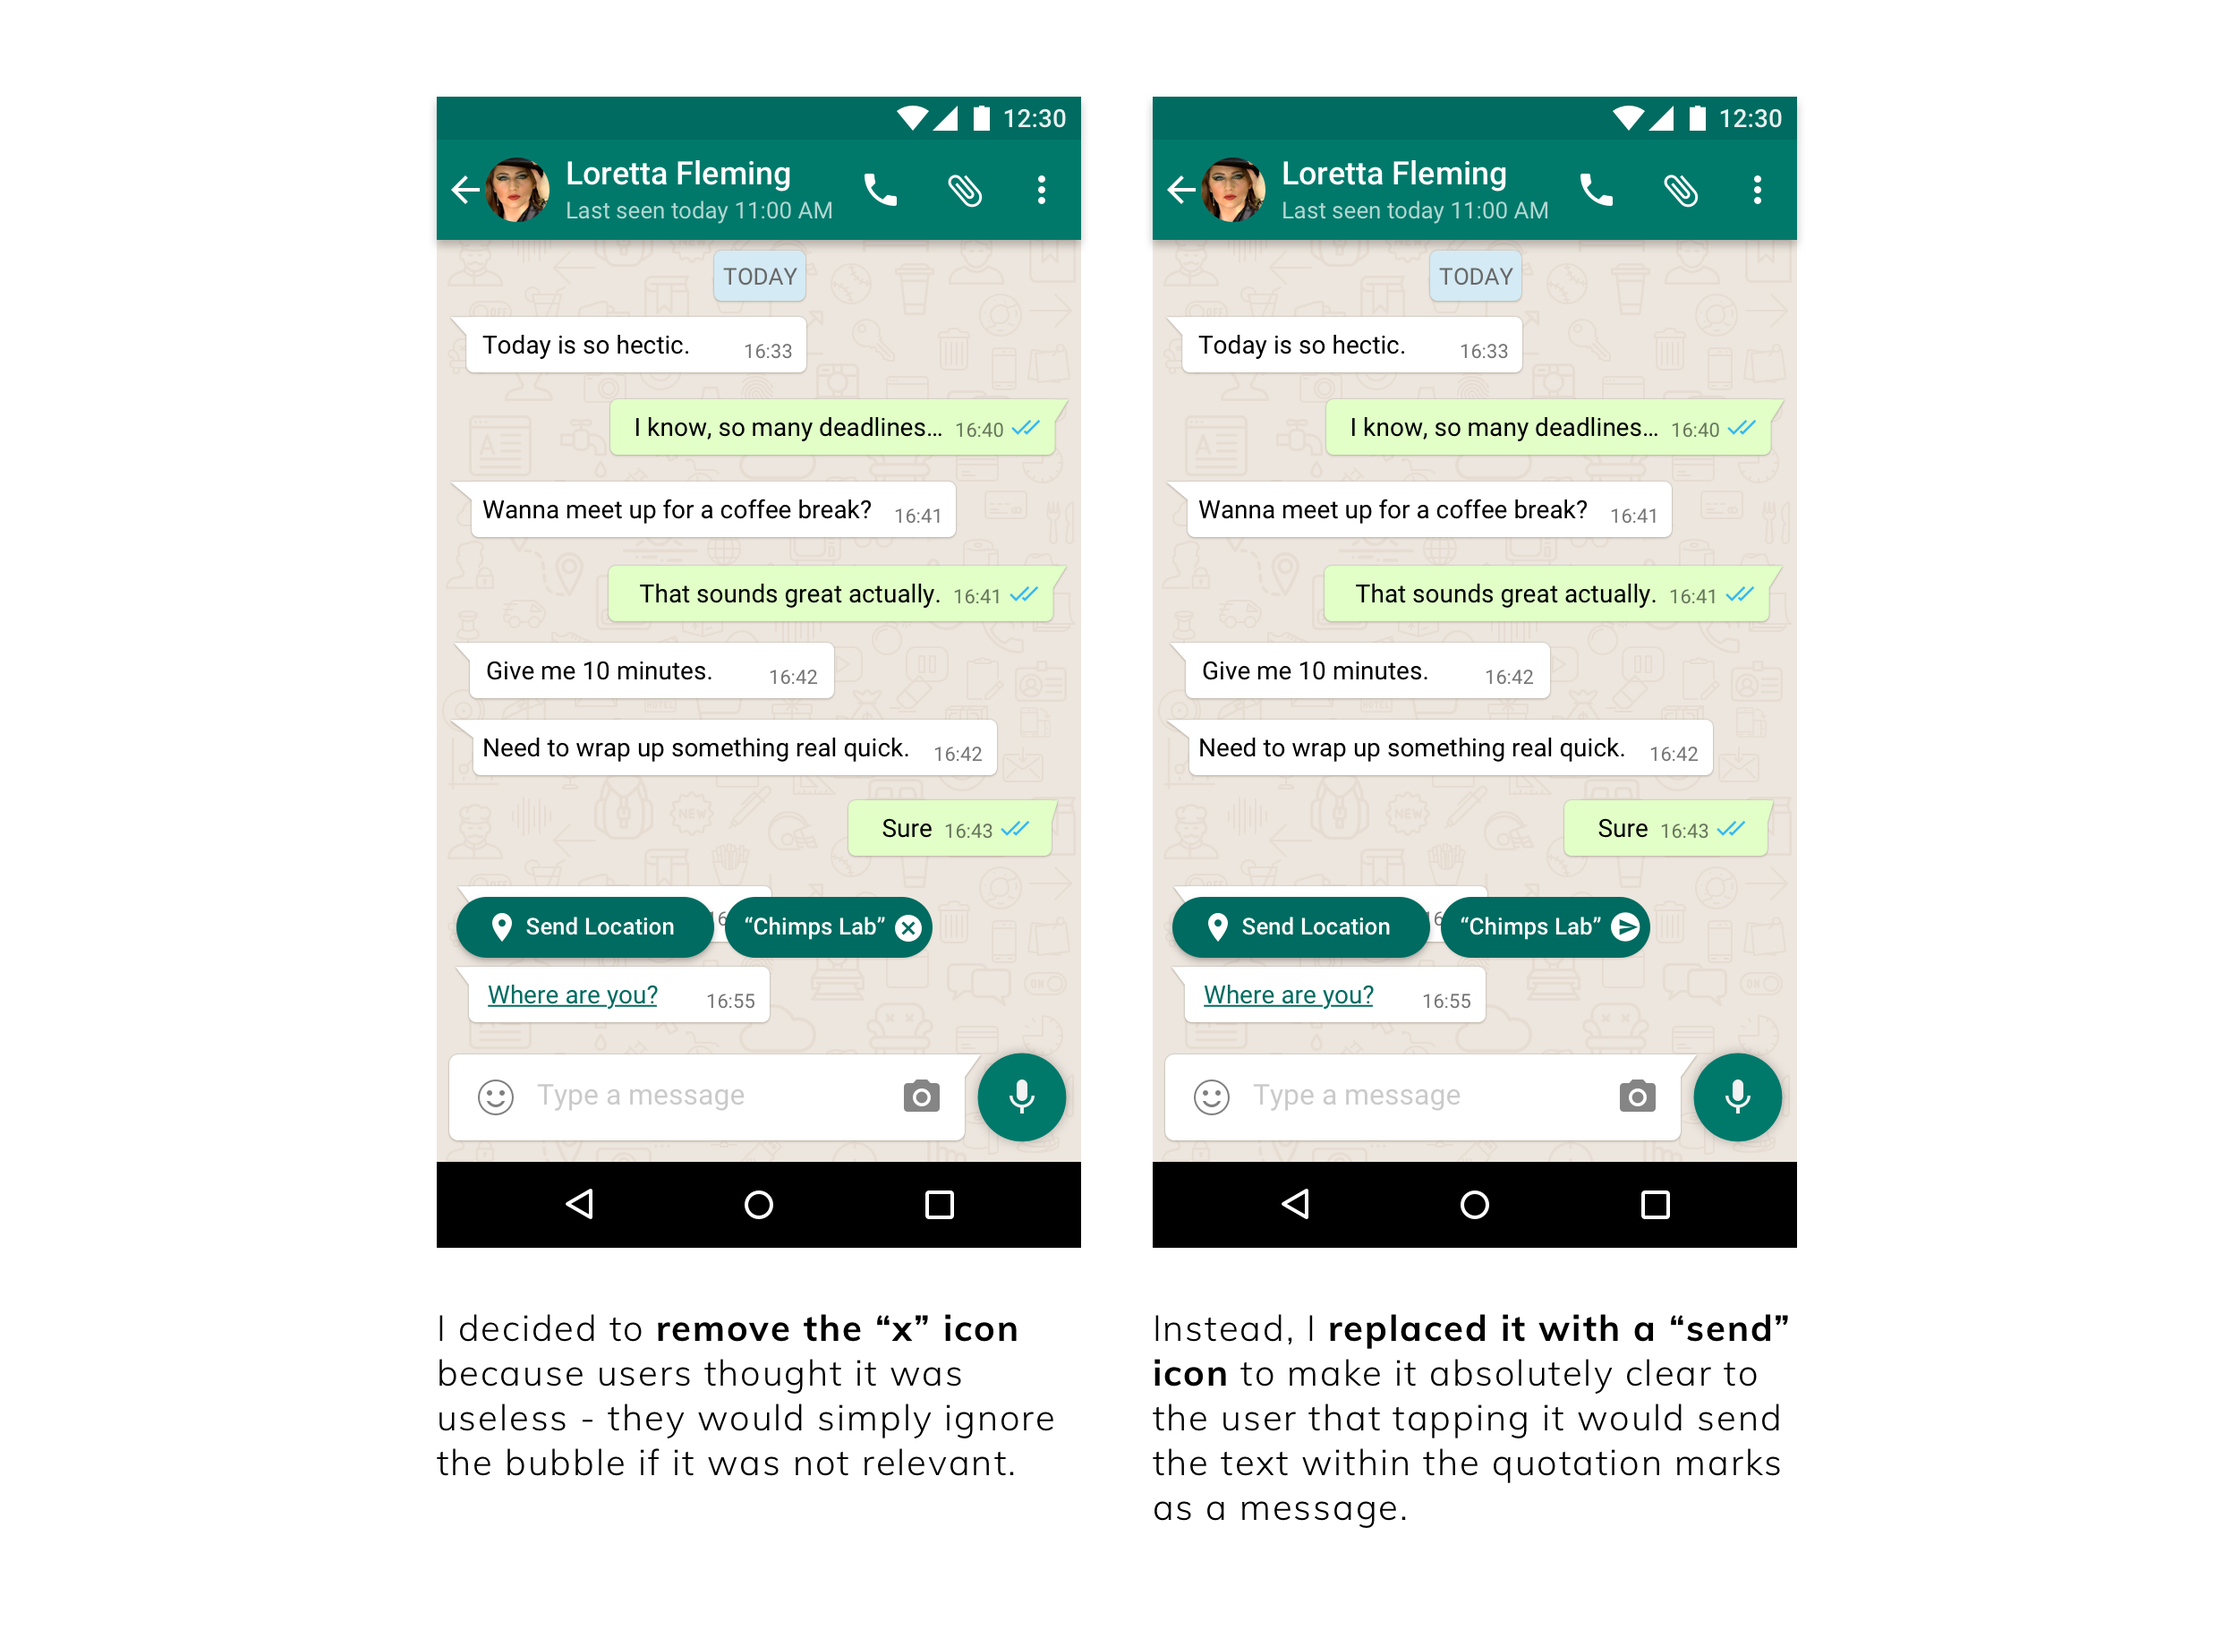
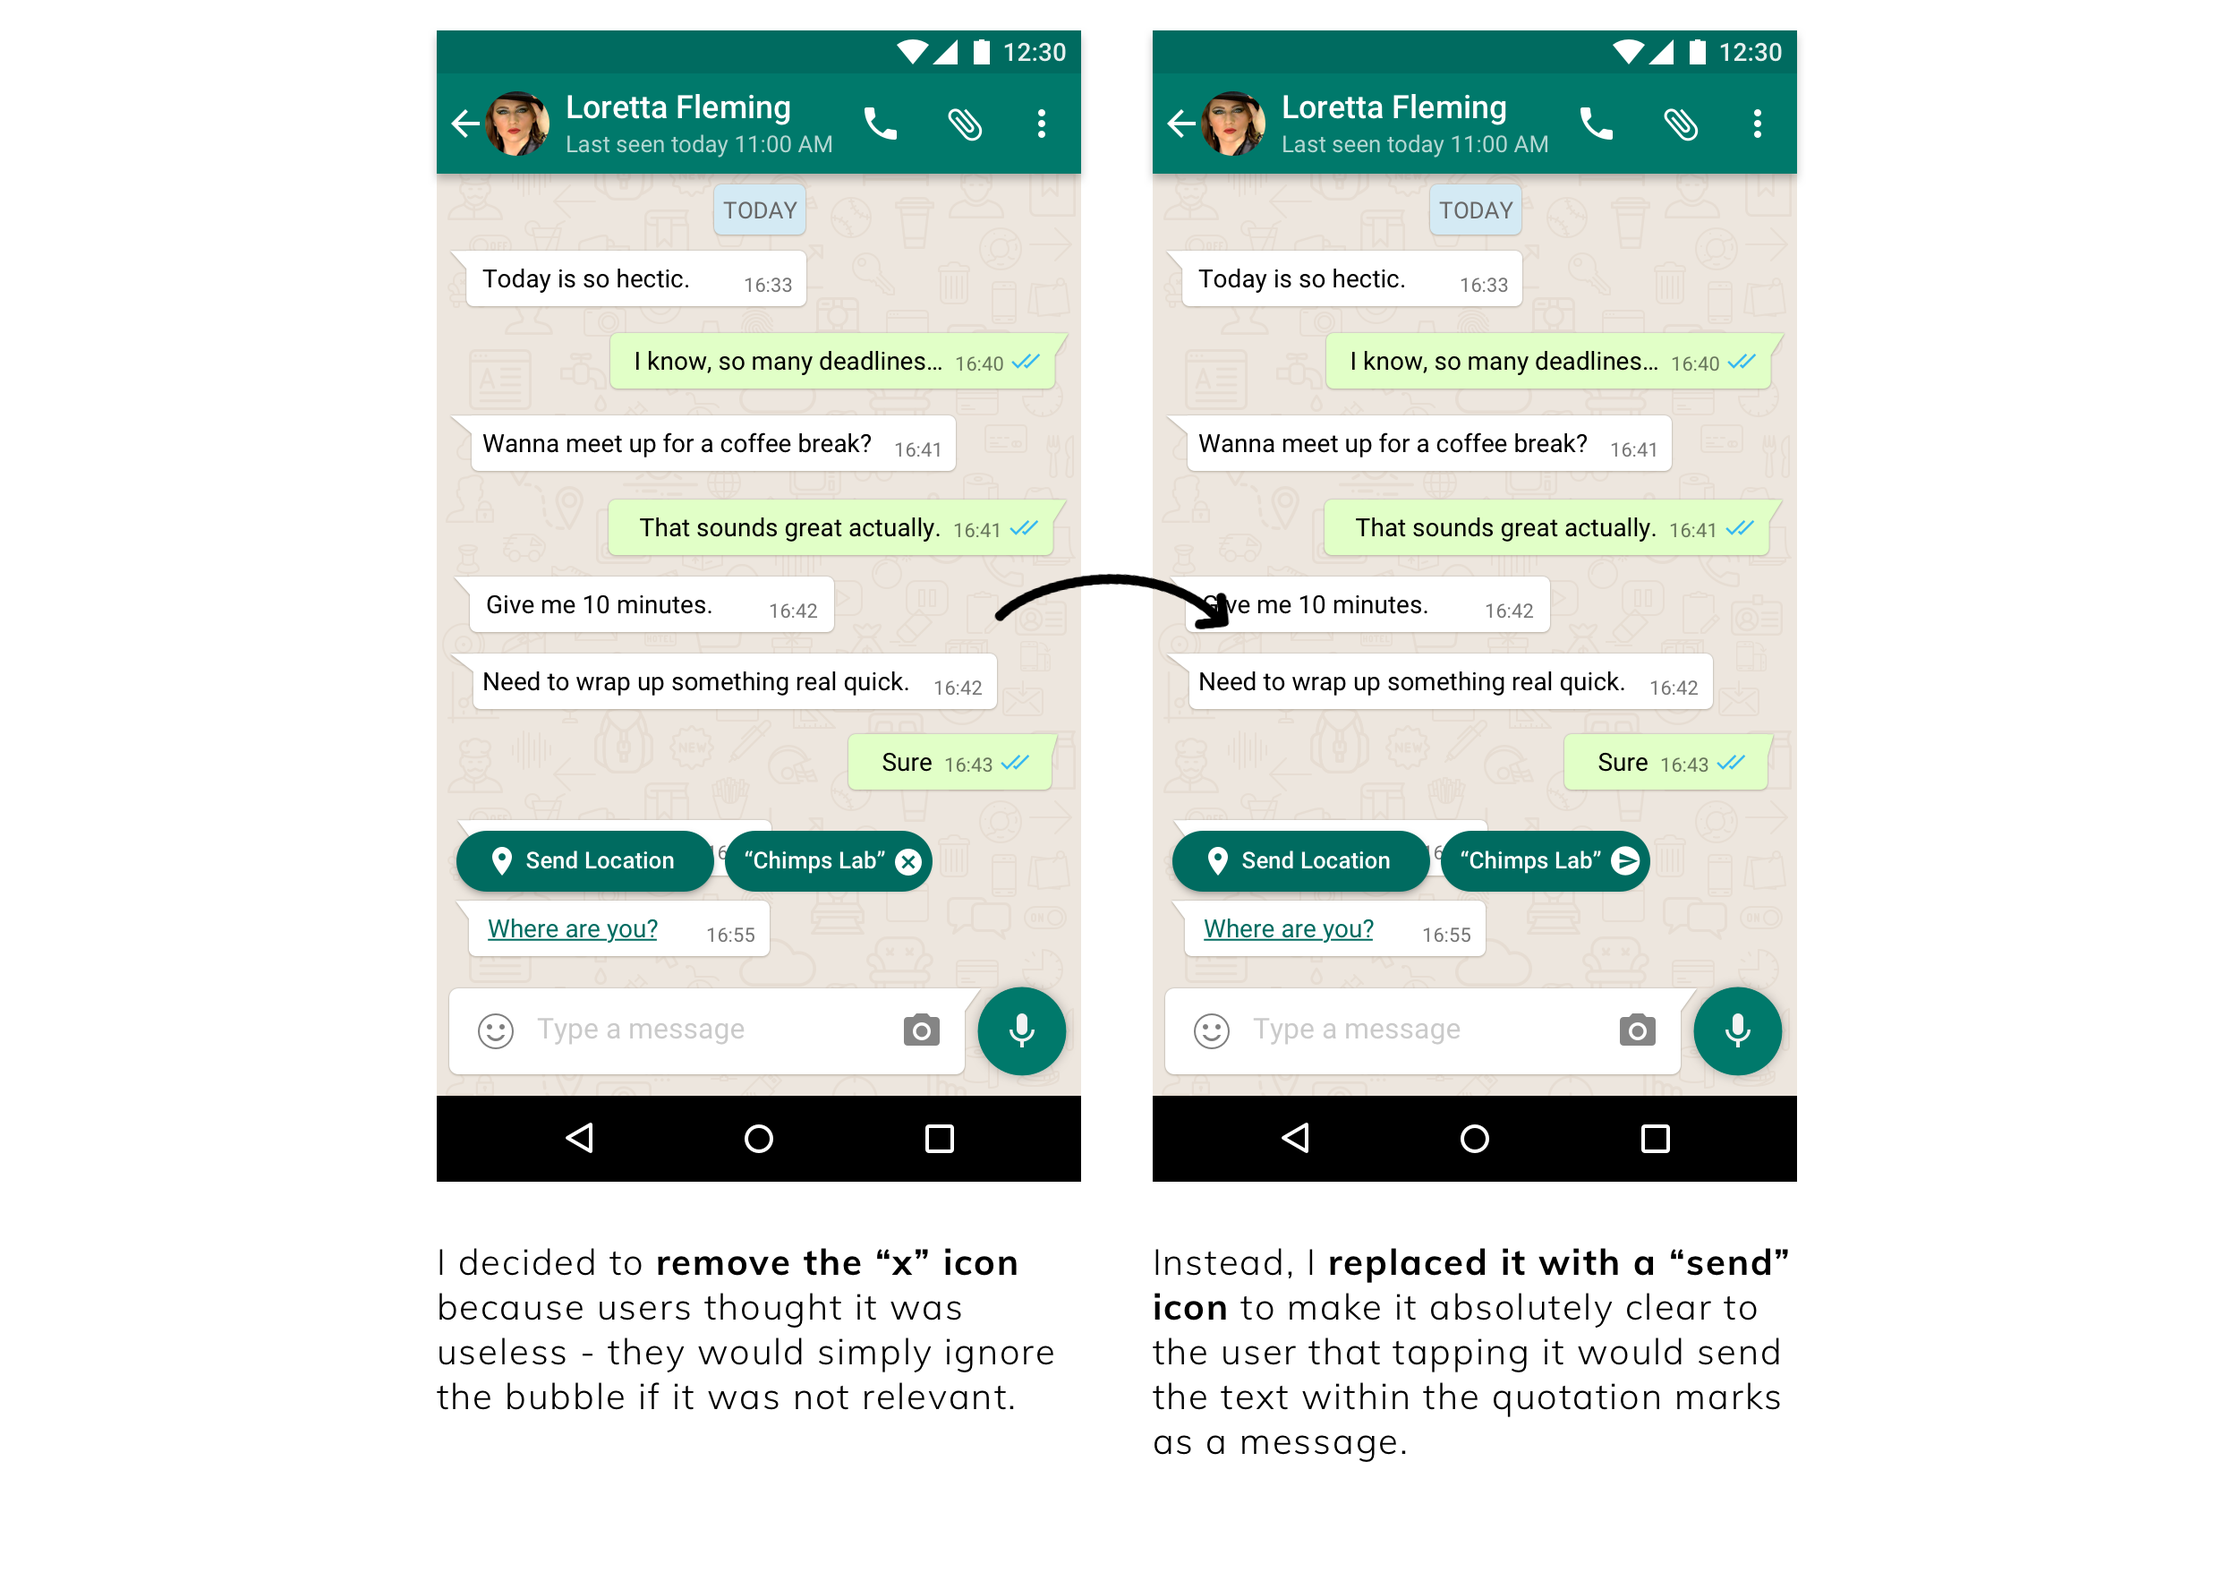
MessageOnTap

Changed region(s): [[0.1852, 0.0, 0.8027, 0.9343]]

diff --git a/messageontap.html b/messageontap.html
@@ -150,8 +150,8 @@
                 </div>
                 <div class="clear"></div>
 
-               
-               <br>
+
+                <br>
                 <div class="center-div">                    
                     <video autoplay="true" loop="true" controller="false" height="600" src="Images/messageontap/overview1.mov"></video>
                     <video autoplay="true" loop="true" controller="false" height="600" src="Images/messageontap/overview2.mov"></video>
@@ -194,19 +194,23 @@
 
                     <h5>use effective color, labeling & icons for clear feedforward of actionable items</h5>
 
+
+                    <h4>ENSURE ACTIONABLE AFFORDANCE OF LINKS W/ COLOR</h4>
                     <div class="center-wide">
                         <figure class="center">
                             <img src="Images/messageontap/color_icon_labels.png">
                         </figure>
                     </div>
-                    
-                     <div class="center-wide">
+
+                   <h4>USE ICONS TO PROVIDE FEEDFORWARD FOR BUBBLES</h4>
+                    <div class="center-wide">
                         <figure class="center">
                             <img src="Images/messageontap/color_icon_labels2.png">
                         </figure>
                     </div>
-                    
-                     <div class="center-wide">
+
+                   <h4>ADD VERBS TO LABELS TO INDICATE ACTIONABILITY</h4>
+                    <div class="center-wide">
                         <figure class="center">
                             <img src="Images/messageontap/color_icon_labels3.png">
                         </figure>
@@ -216,13 +220,15 @@
 
                     <h5>minimize number of taps for fast action & response</h5>
 
+                   <h4>TAP BUBBLE TO SEND IMMEDIATELY</h4>
                     <div class="center-wide">
                         <figure class="center">
                             <img src="Images/messageontap/fast.png">
                         </figure>
                     </div>
-                    
-                     <div class="center-wide">
+
+                   <h4>GIVE USERS CONTROL OF LEVEL OF DETAIL TO SHARE</h4>
+                    <div class="center-wide">
                         <figure class="center">
                             <img src="Images/messageontap/fast2.png">
                         </figure>
